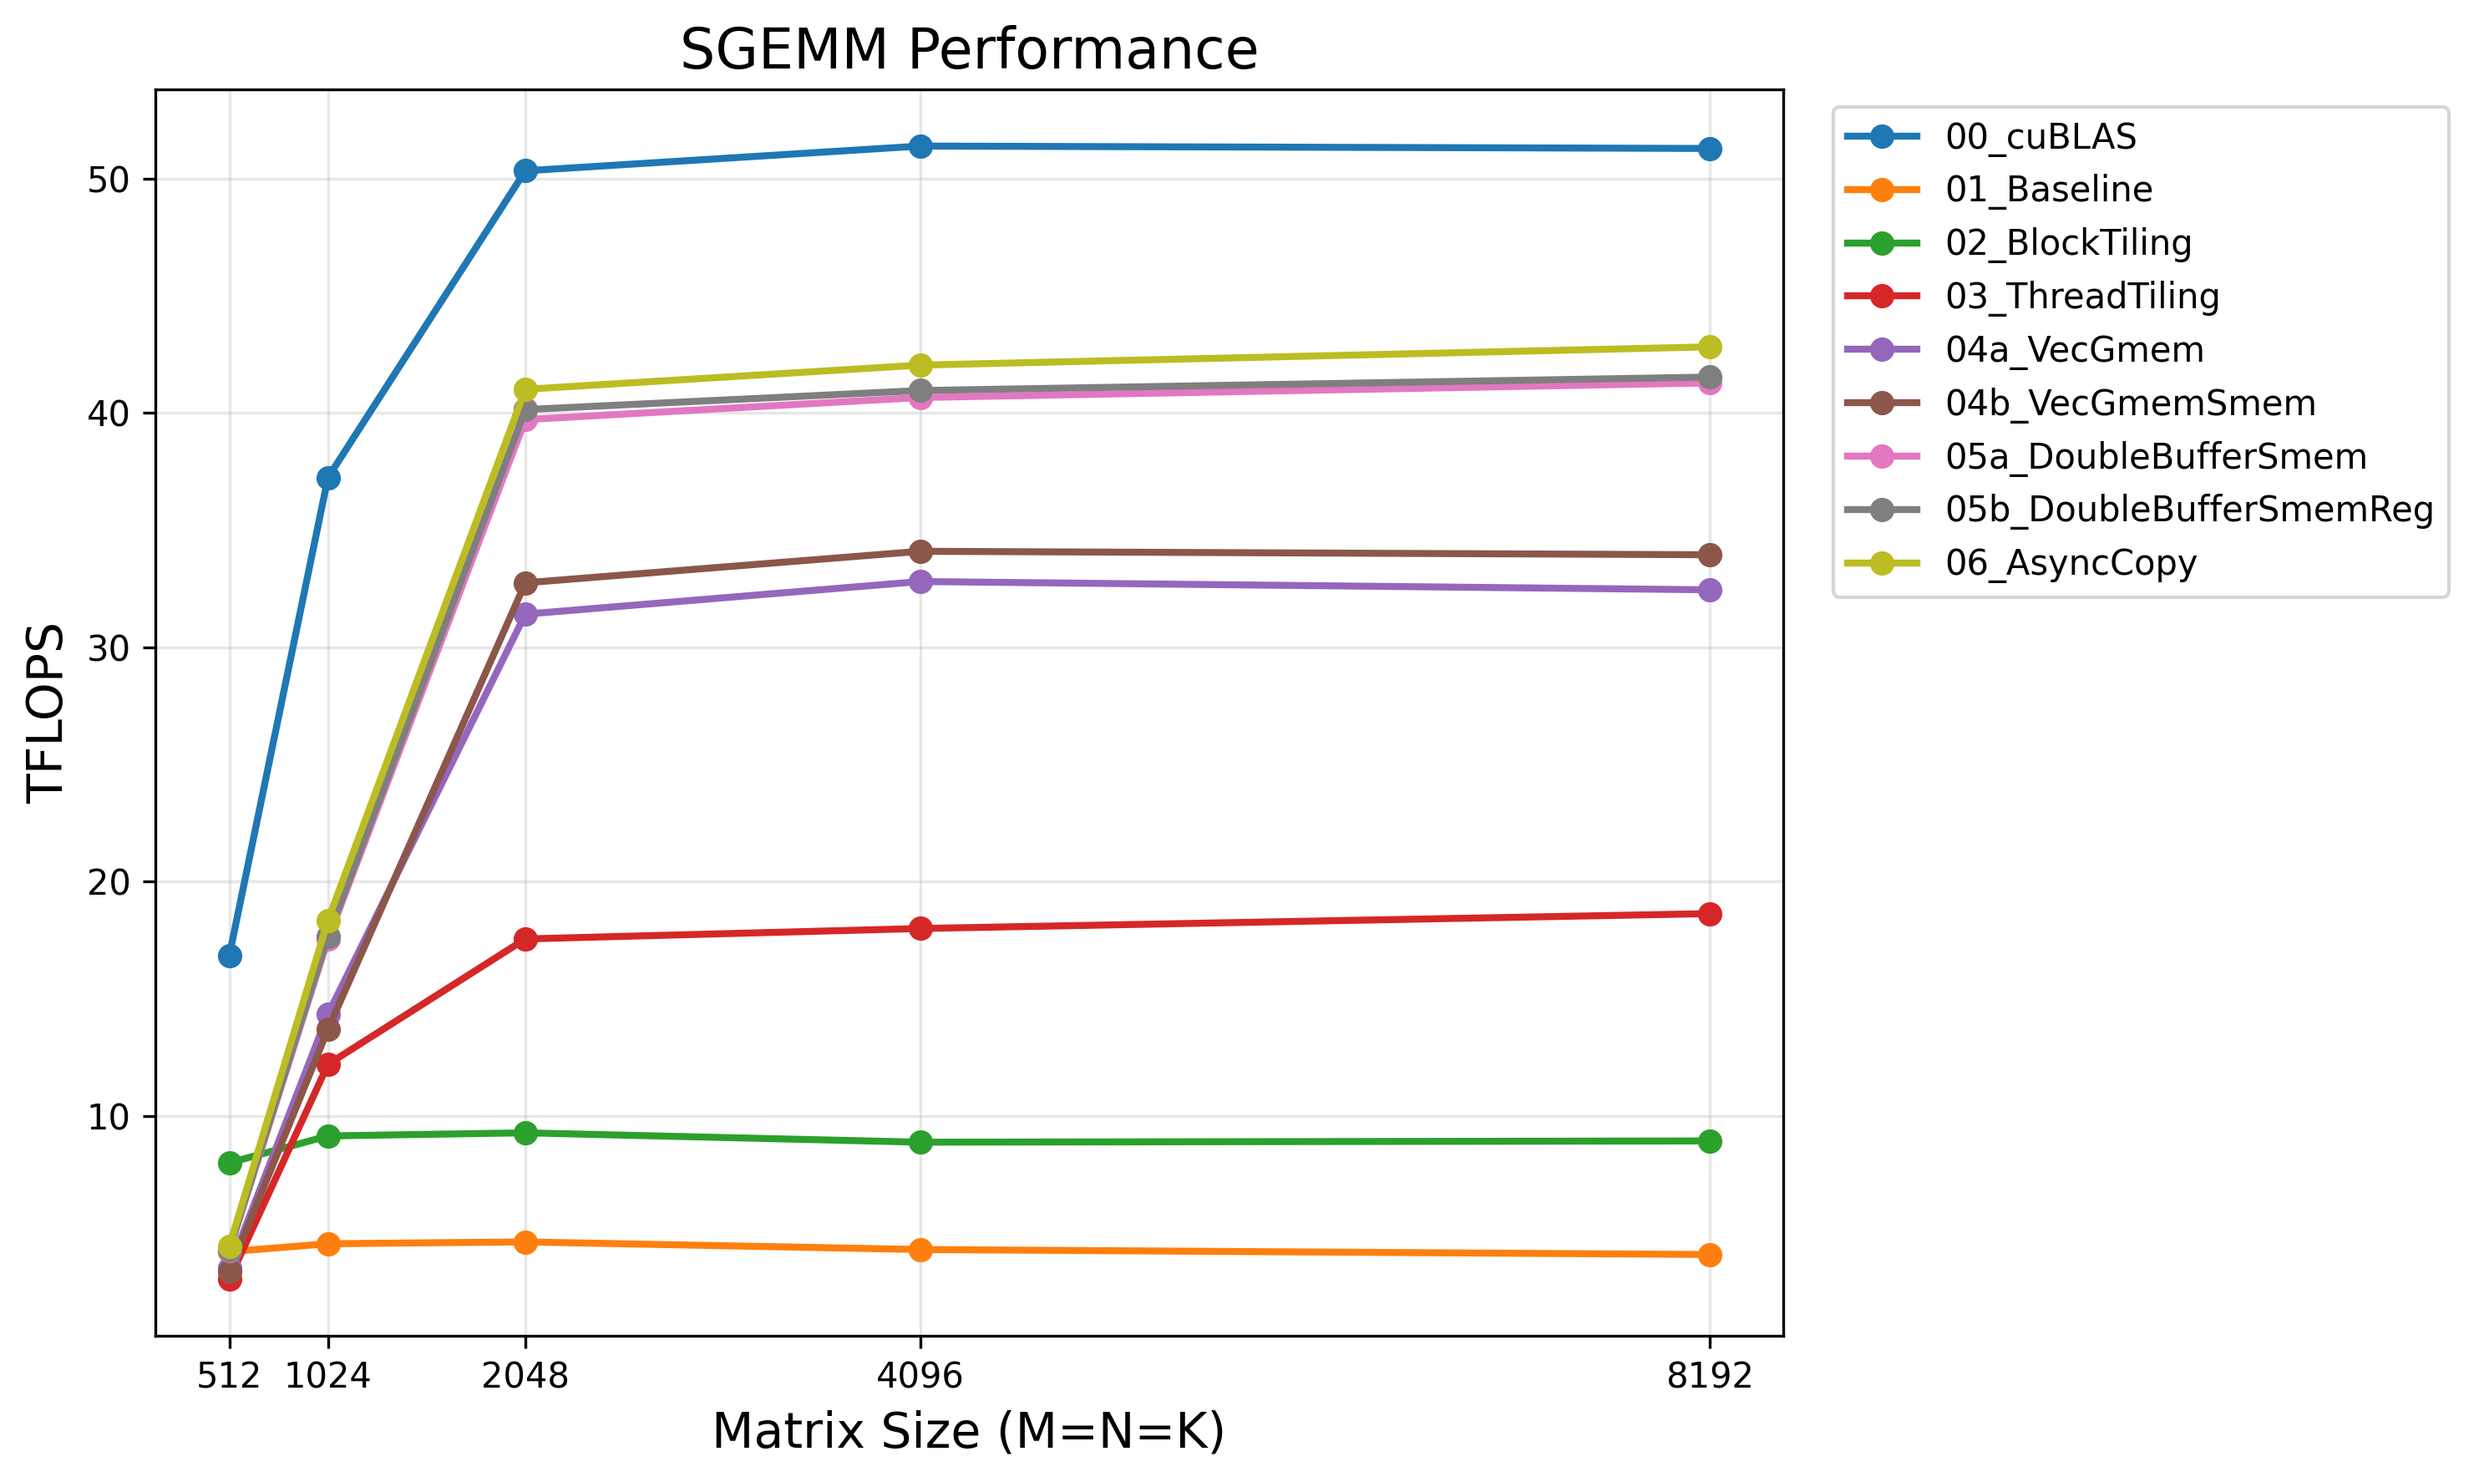
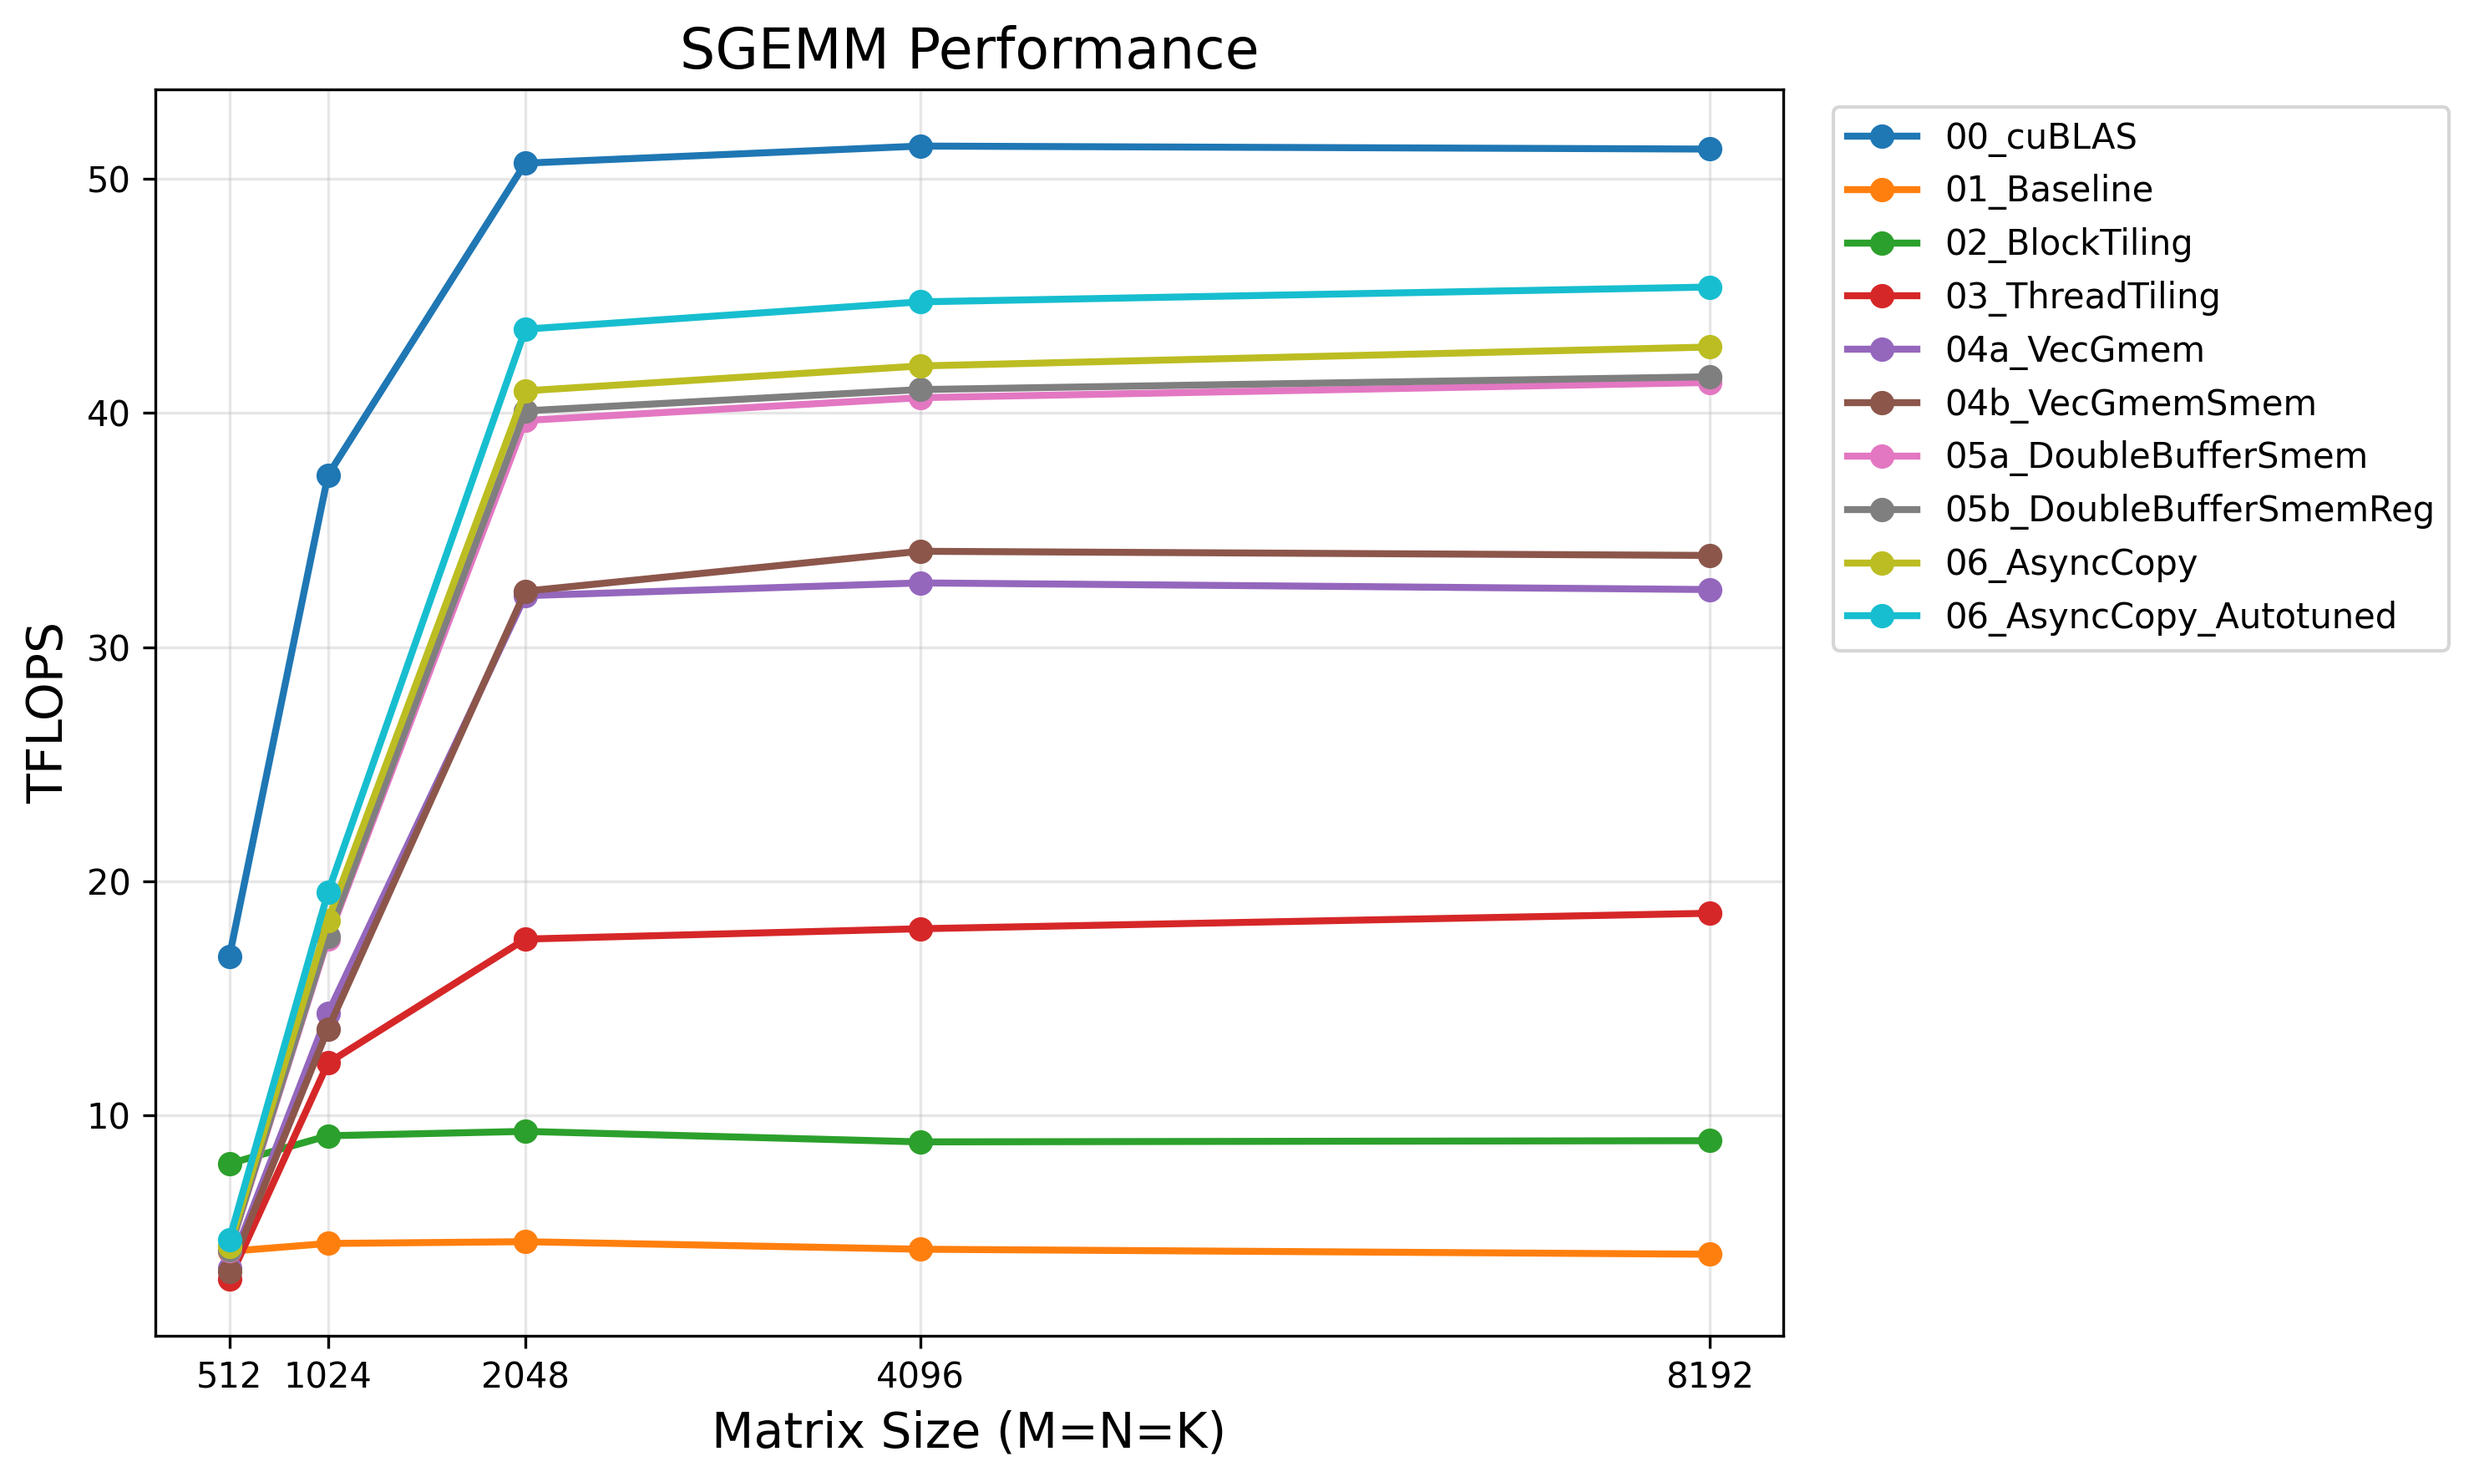
update figure

diff --git a/README.md b/README.md
@@ -31,6 +31,9 @@ python3 scripts/plot_results.py gemm_results.csv
 | 05a_double_buffer_smem | + Shared memory double buffering |
 | 05b_double_buffer_smem_reg | + Register double buffering |
 | 06_async_copy | + Asynchronous GMEM→SMEM copies (cp.async) |
+| 06_async_copy_autotuned | + Autotuned tile/thread configuration |
+
+The autotuned kernel achieves **88% of cuBLAS** performance (45.4 vs 51.3 TFLOPS at N=8192).
 
 ## Results
 * **NVIDIA H200 SXM (141 GB HBM3e)**
